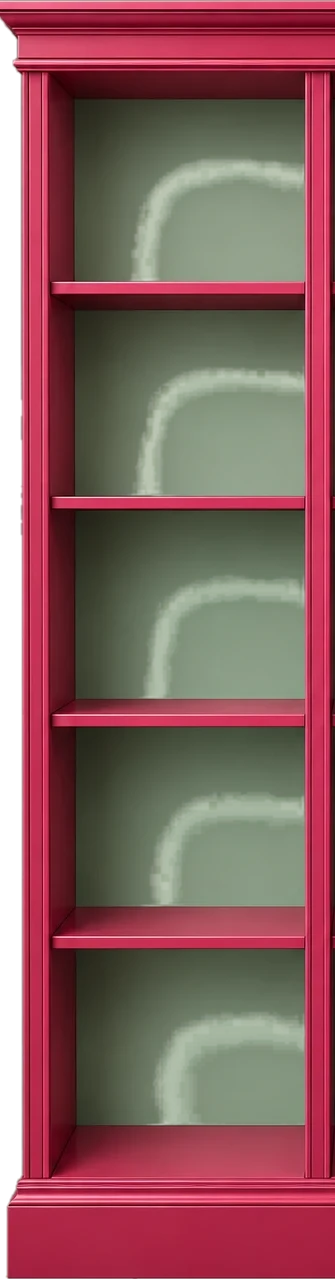
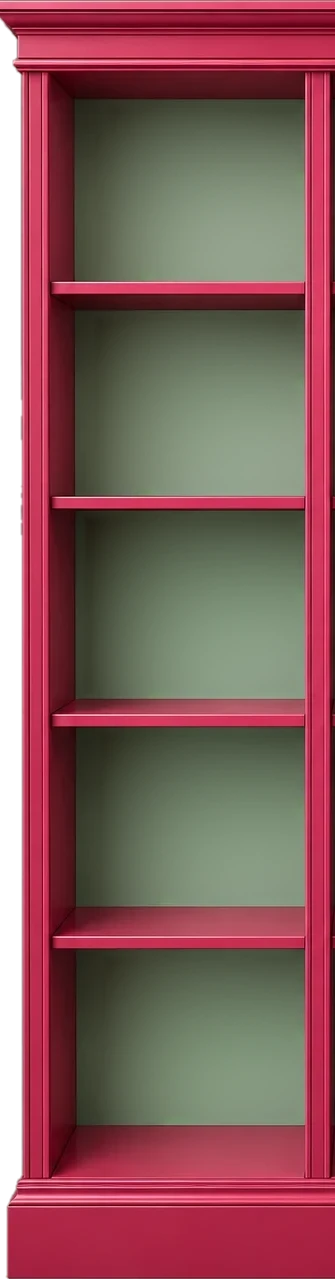
Lady: Rückwände von Regal und Vitrine nicht mehr halb durchsichtig – keine hellen Bögen mehr (1.92.4)

diff --git a/index.html b/index.html
@@ -1861,7 +1861,7 @@ html.theme-retreat .shelf-orchid{ position:absolute; left:0; bottom:-13.8%; heig
 
 <script>
 /* Bump on every published update, so it's visible at a glance whether the newest version is loaded. */
-const APP_VERSION = '1.92.3';
+const APP_VERSION = '1.92.4';
 /* Design (since 1.80.0, see the small script in <head>): in "Business" (BIZ) the gold paper icons are swapped for plain line
    icons (img/icons-rl/*.svg) wherever they appear – also in everything drawn later – so the rest of the code stays as it is. */
 // A Lady's Conservatory (1.84.0, named so since 1.86.1; key 'retreat' and RETREAT stay): light, cream and forest green; until its own pictures come it uses those of A Gentleman's Study (with the

diff --git a/CLAUDE.md b/CLAUDE.md
@@ -127,7 +127,7 @@ Der Nutzer ist kein Entwickler. Erkläre Schritte einfach und auf Deutsch.
 - Veröffentlicht über **GitHub Pages** aus diesem Repository (Branch `main`, Ordner `/`):
   https://k9vk58y99f-max.github.io/k9vk58y99f-max.github.io-ewolfe-app-/
 - Ein Commit + Push auf `main` ist die Veröffentlichung; nach 1–2 Minuten ist es live.
-- Bei jeder Änderung `APP_VERSION` erhöhen (aktuell `1.92.3`) und `APP_BUILD` anpassen.
+- Bei jeder Änderung `APP_VERSION` erhöhen (aktuell `1.92.4`) und `APP_BUILD` anpassen.
   Die Version steht unten in der App.
 
 ## Neu seit 1.55.0 (iPad, Wischen, Tagebuch, Sticker, Impulskarten)
@@ -524,6 +524,10 @@ Vor jedem Push: Syntax prüfen und die betroffenen Abläufe testen. Daten des Nu
   Raum `background-position-x` mitgeschoben); AGS: Medaillen 20 % kleiner, linker Rand bleibt, untere Reihe halb unter der oberen
   (`nth-child(n+4)` margin-top), obere linke per `clip-path` am Revers abgeschnitten; AGS-Trophäen im Tagebuch auf Navy-Karte mit
   Bronzerand (`tbIsRlTrophyImg`, `.is-trophy-rl`), weil die Freisteller Navy-Ränder haben.
+- 1.92.4: Lady-Regal, Bücherteil und Vitrine (`rt2/shelf`, `rt2/shelf-narrow`, `rt2/vitrine`) hatten halb durchsichtige Rückwände
+  (Rest vom Freistellen) – durch die Löcher schien die grüne Wand als helle Bögen. Löcher geschlossen (Alpha 255 im Inneren), Regal-Rückwände
+  zusätzlich glatt nachgerechnet. Andere Designs geprüft: dort nur Randpixel. Neue Bilder nach dem Freistellen immer vor einer
+  farbigen Fläche prüfen.
 - Prompts Weihnachtsbaum (schmiedeeiserner Ständer, alter Glasschmuck) und Adventskranz für alle drei Designs:
   Sammelordner „Weihnachtsbaum und Adventskranz – Prompts (24.10.2026).md“.
 - **Geplant (Datenschutz, noch nicht gebaut):** Ende-zu-Ende-Verschlüsselung (AES-256 auf dem Gerät, Schlüssel aus dem Passwort mit
